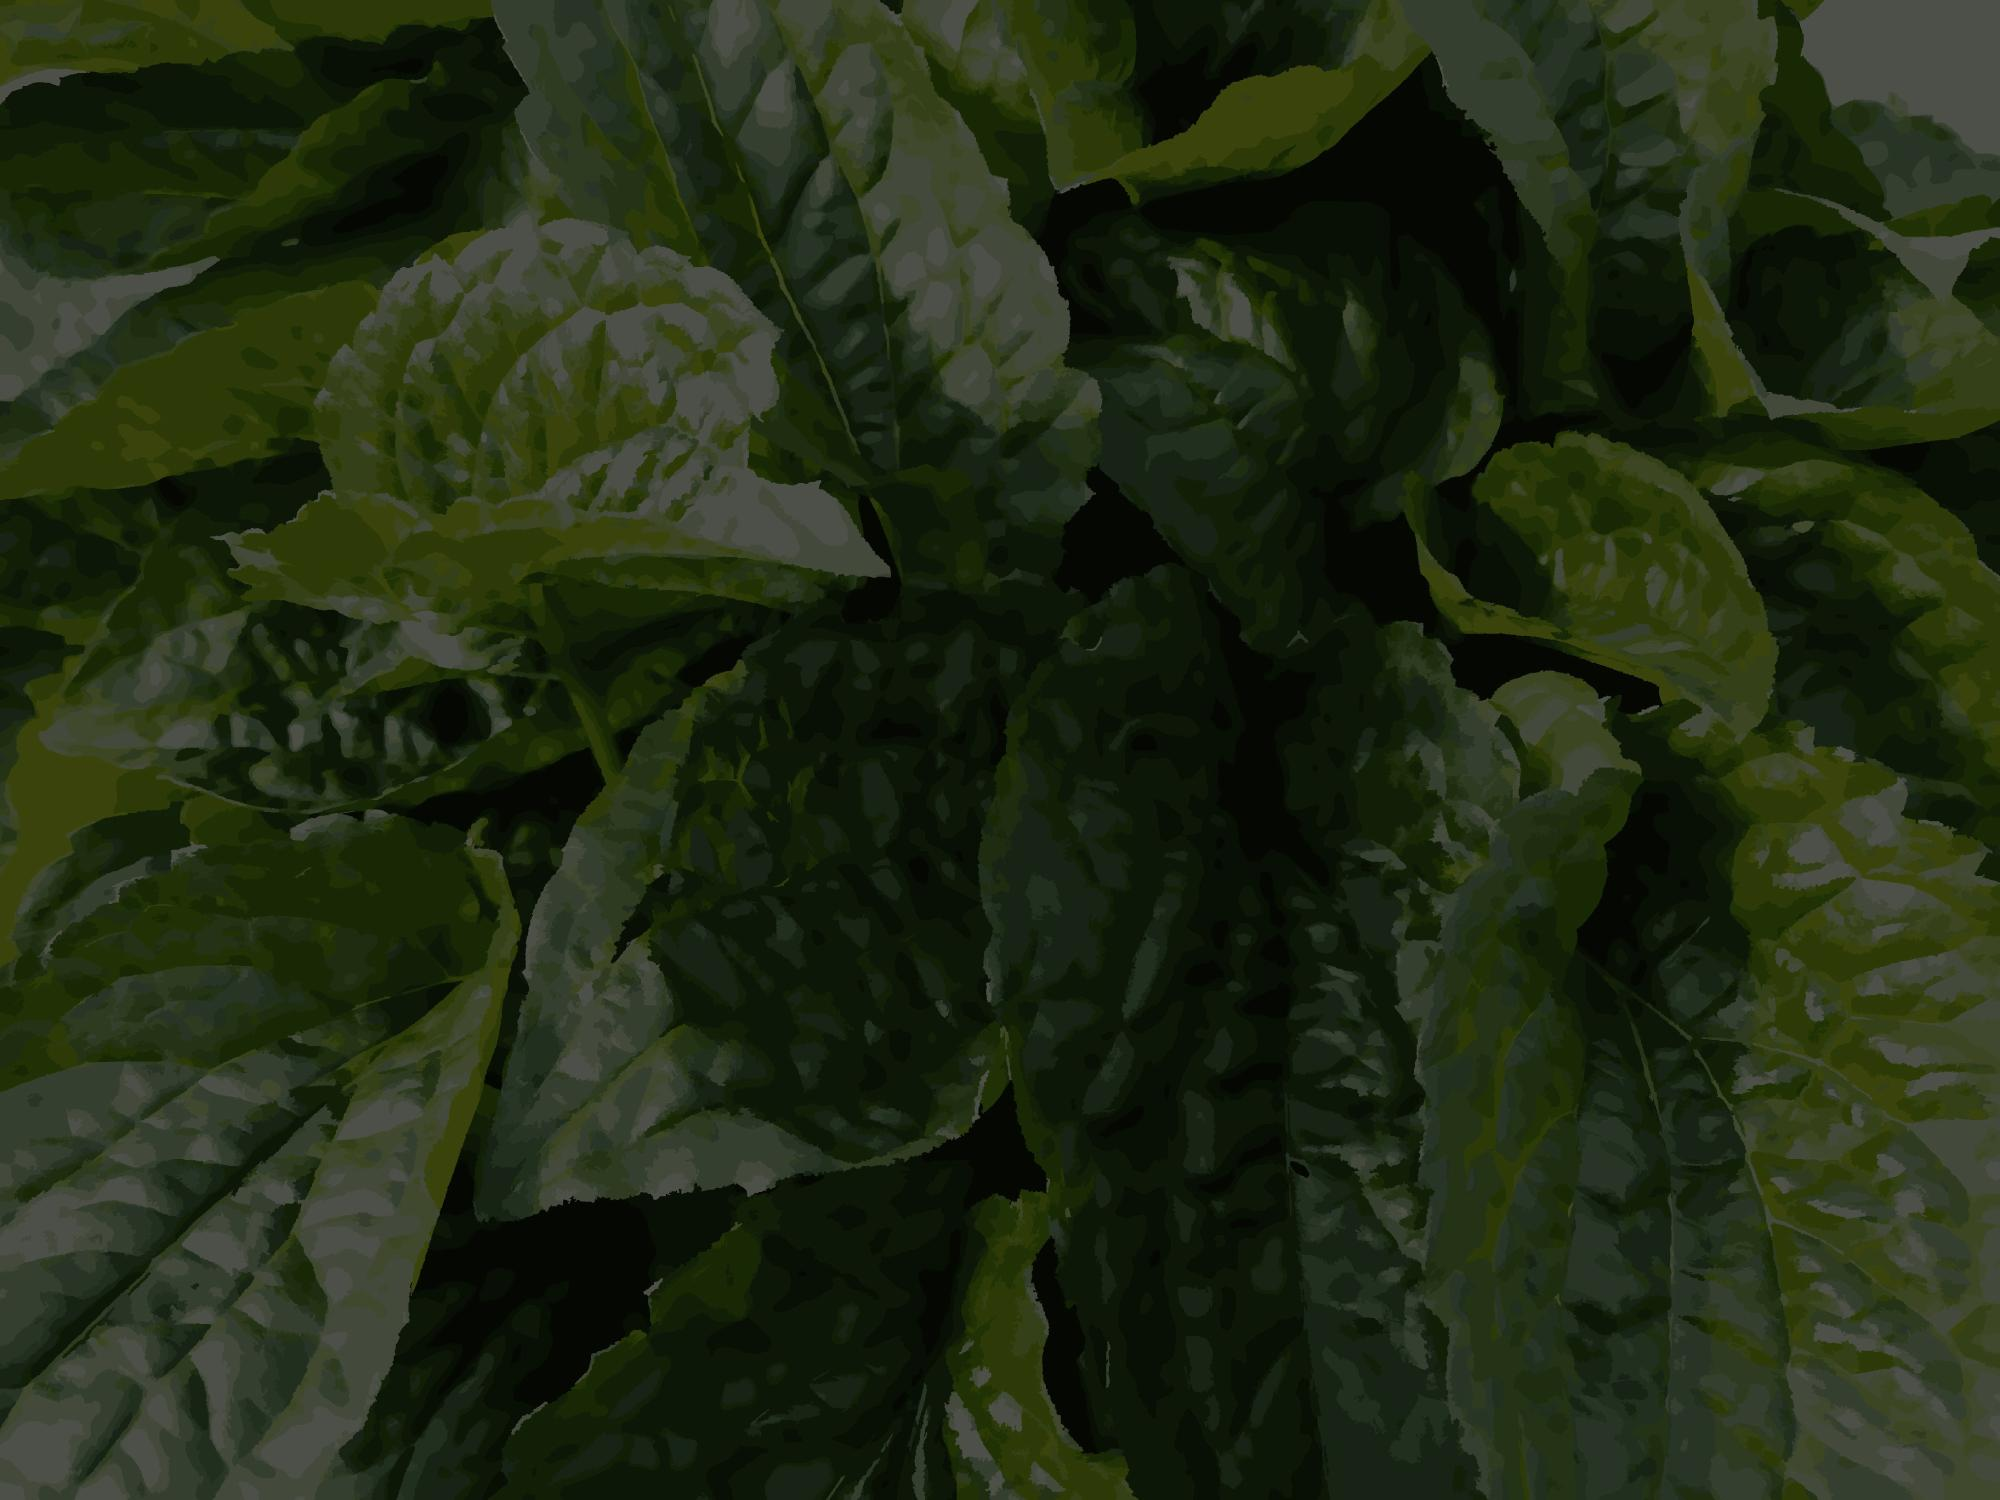
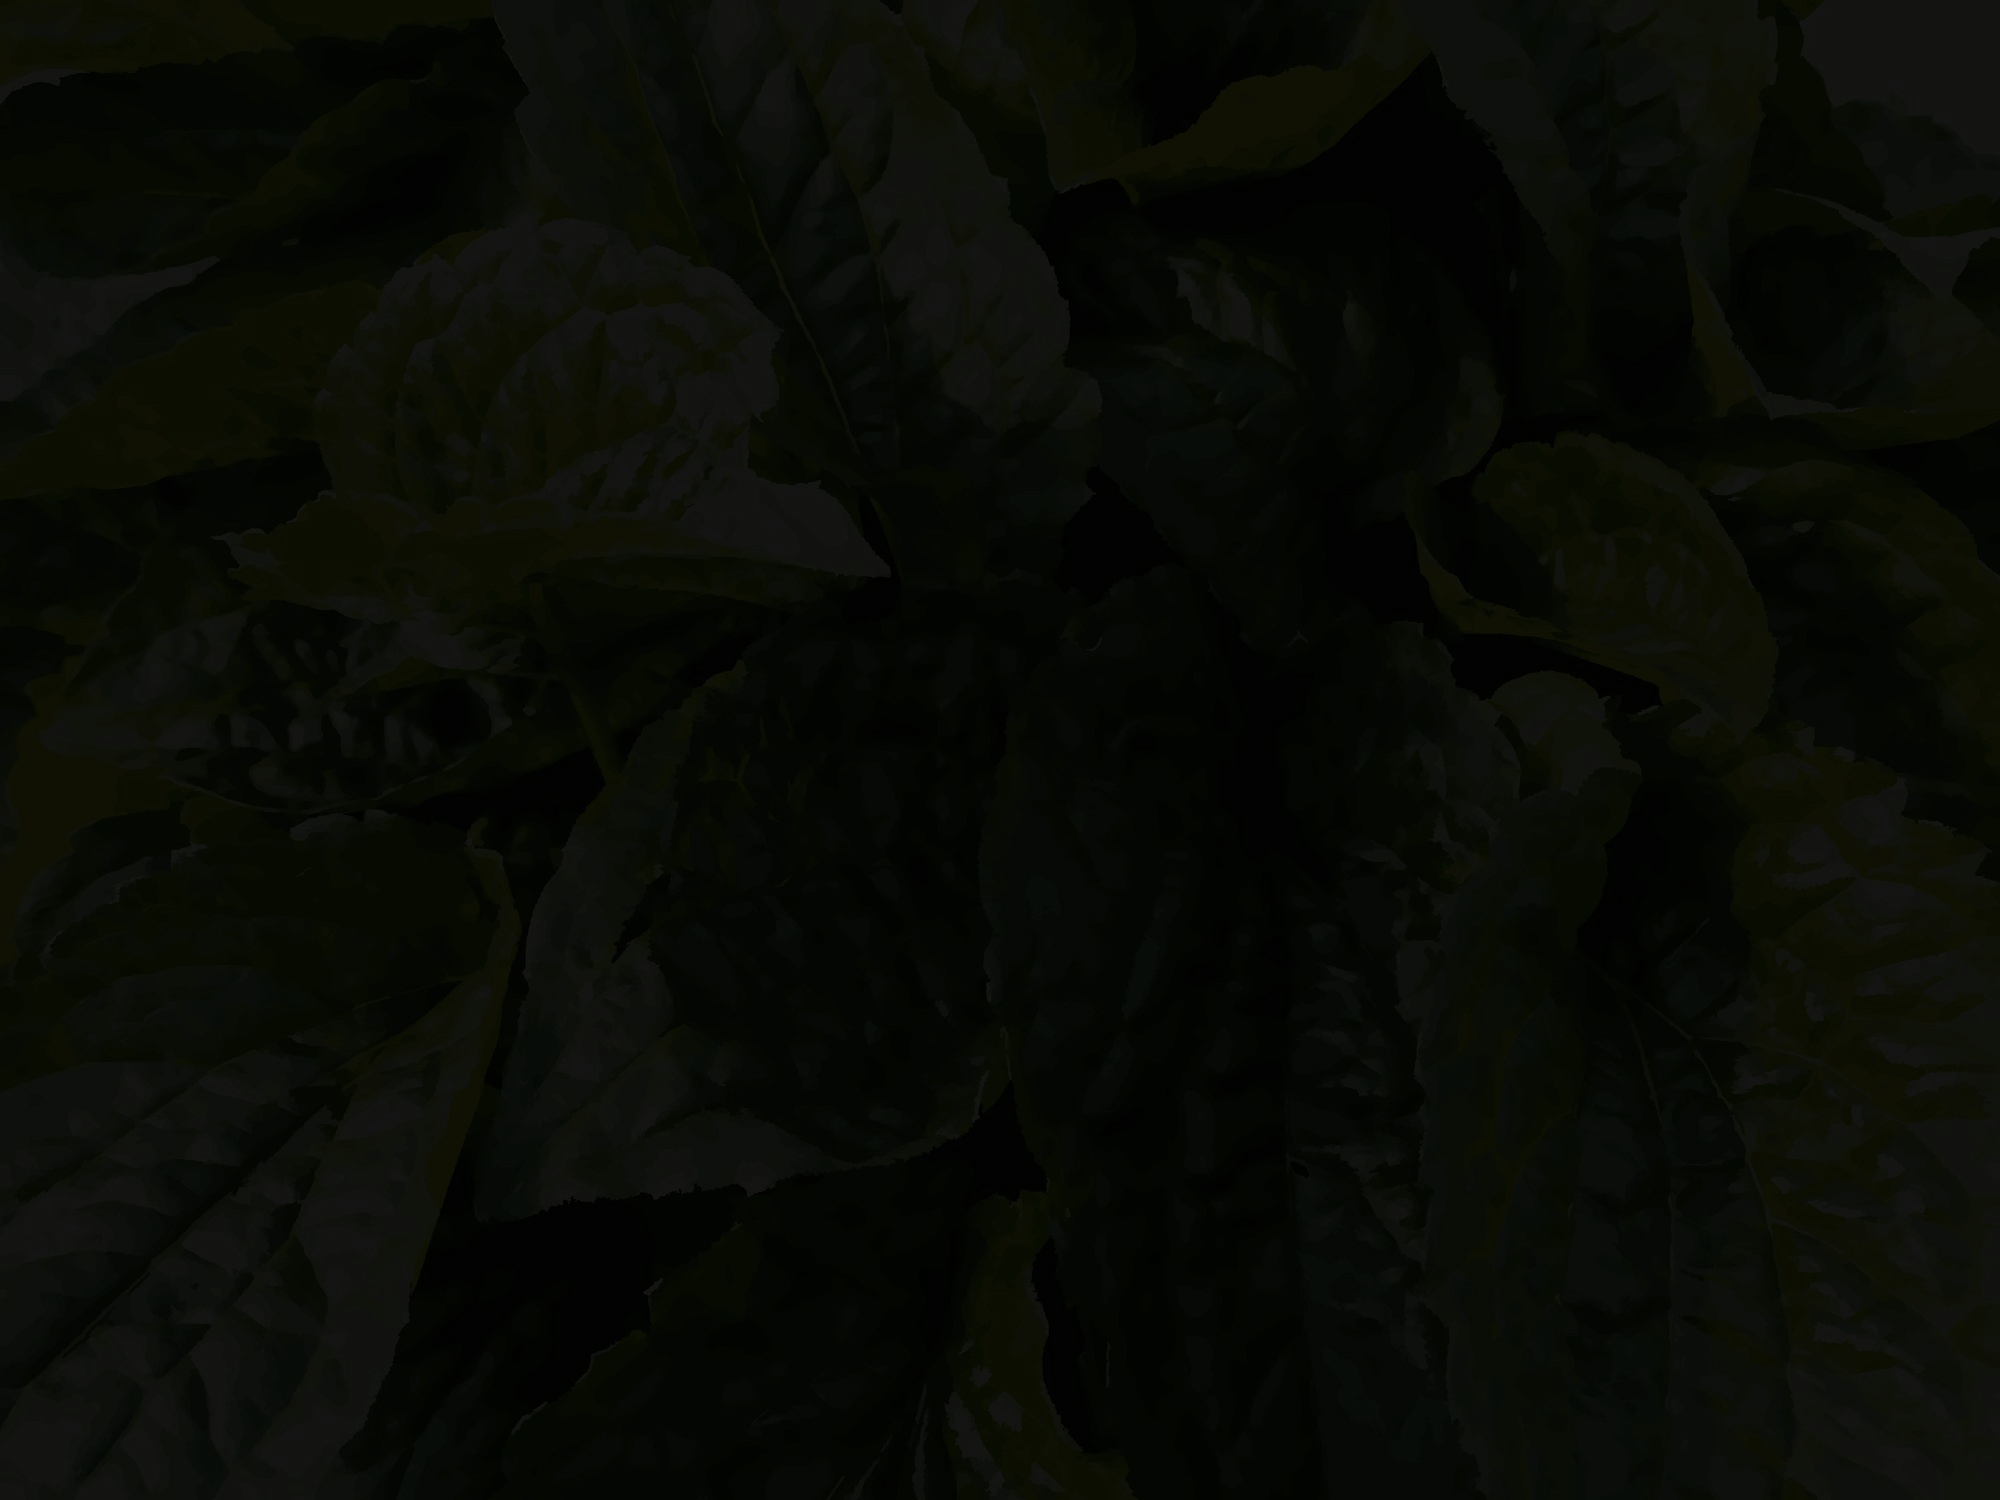
Uppdaterar CSS och bakgrundsbild

diff --git a/src/views/AdminView.vue b/src/views/AdminView.vue
@@ -3,18 +3,23 @@
     <div class="px-5">
         <div class="flex justify-center">
             <div class="w-full max-w-sm md:max-w-md">
-                <div class="bg-white/20 rounded-2xl py-3 md:py-5 px-5 md:px-7">
-                    <h2>Kategorier</h2>
-                    <h3>Befintliga kategorier</h3>
-                    <Categories v-for="category in categories" :category="category" :key="category.id"
-                        @editCategory="editCategory" @deleteCategory="deleteCategory" />
-                    <p class="font-bold text-green-700" :class="{ 'fade-out': msgCategory !== '' }">{{ msgCategory }}</p>
-                    <div v-if="editingCategory">
-                        <EditCategory :category="editingCategory" @categoryEdited="updateCategory"
-                            @cancelEdit="cancelEditCategory" />
+                <div class="bg-white/20 rounded-2xl p-5 pb-3 md:pt-6">
+                    <h2 class="mb-3 md:mb-4">Kategorier</h2>
+                    <div>
+                        <h3>Befintliga kategorier</h3>
+                        <Categories v-for="category in categories" :category="category" :key="category.id"
+                            @editCategory="editCategory" @deleteCategory="deleteCategory" />
                     </div>
-                    <div v-else>
-                        <AddCategory :token="token" @categoryAdded="getCategories()" />
+                    <p class="font-bold text-green-500" :class="{ 'fade-out': msgCategory !== '' }">{{
+                        msgCategory }}</p>
+                    <div class="mt-3">
+                        <div v-if="editingCategory">
+                            <EditCategory :category="editingCategory" @categoryEdited="updateCategory"
+                                @cancelEdit="cancelEditCategory" />
+                        </div>
+                        <div v-else>
+                            <AddCategory :token="token" @categoryAdded="getCategories()" />
+                        </div>
                     </div>
                 </div>
                 <br>

diff --git a/src/components/Categories.vue b/src/components/Categories.vue
@@ -1,12 +1,20 @@
 <template>
-    <div>
-        <p>{{ category.name }}</p>
-        <button @click="$emit('editCategory', category)">Ändra</button>
-        <button @click="confirmDelete">Radera</button>
-        <div v-if="showConfirmation">
-            <p>Alla produkter som tillhör denna kategori kommer att försvinna. Vill du verkligen radera kategorin?</p>
-            <button @click="deleteCategory">Ja</button>
-            <button @click="cancelDelete">Nej</button>
+    <div class="py-2 border-solid border-b border-white/20 last:border-none">
+        <div class=" flex items-center justify-between flex-wrap">
+            <p class="text-sm md:text-base">{{ category.name }}</p>
+            <div>
+                <button @click="$emit('editCategory', category)"
+                    class="bg-yellow-500/20 hover:bg-yellow-500/40 me-1">Ändra<i
+                        class="fa-solid fa-pen-to-square ps-1 md:ps-2"></i></button>
+                <button @click="confirmDelete" class="bg-red-500/20 hover:bg-red-500/40">Radera<i
+                        class="fa-regular fa-trash-can ps-1 md:ps-2"></i></button>
+            </div>
+        </div>
+        <div v-if="showConfirmation" class="py-2">
+            <p class="pb-3">Alla produkter som tillhör denna kategori kommer att försvinna. Är du säker på att du vill
+                radera kategorin?</p>
+            <button @click="deleteCategory">Radera<i class="fa-regular fa-trash-can ps-1 md:ps-2"></i></button>
+            <button @click="cancelDelete" class="ms-1">Avbryt</button>
         </div>
     </div>
 </template>

diff --git a/src/components/EditCategory.vue b/src/components/EditCategory.vue
@@ -1,12 +1,14 @@
 <template>
-    <div>
-        <h3>Ändra kategori</h3>
-        <label for="editCatName">Namn: </label>
-        <input v-model="editedCategoryName" type="text" id="editCatName">
-        <button @click="editCategory">Spara</button>
-        <button @click="$emit('cancelEdit')">Avbryt</button>
-        <p class="font-bold text-red-700" :class="{ 'fade-out': errorMessage !== '' }">{{ errorMessage }}</p>
+    <h3>Ändra kategori</h3>
+    <label for="editCatName">Namn:</label>
+    <br>
+    <input v-model="editedCategoryName" type="text" id="editCatName" class="w-full">
+    <br>
+    <div class="w-full mt-3 mb-3 flex">
+        <button @click="editCategory" class="me-1 w-full">Spara<i class="fa-solid fa-rotate ps-1 md:ps-2"></i></button>
+        <button @click="$emit('cancelEdit')" class="w-full">Avbryt</button>
     </div>
+    <p class="text-center font-bold text-red-500 mt-1" :class="{ 'fade-out': errorMessage !== '' }">{{ errorMessage }}</p>
 </template>
   
 <script>
@@ -30,7 +32,7 @@ export default {
                 // Tar bort meddelande efter 5 sekunder
                 setTimeout(() => { this.errorMessage = "" }, 5000);
 
-            // Skickar event med kategori-id och kategori-namn till föräldrakomponent
+                // Skickar event med kategori-id och kategori-namn till föräldrakomponent
             } else {
                 this.$emit('categoryEdited', {
                     id: this.category.id,

diff --git a/src/components/AddCategory.vue b/src/components/AddCategory.vue
@@ -1,12 +1,14 @@
 <template>
-    <p class="font-bold text-green-700" :class="{ 'fade-out': message !== '' }">{{ message }}</p>
     <h3>Lägg till kategori</h3>
     <form @submit.prevent="addCategory()">
-        <label for="catName">Namn: </label>
-        <input v-model="name" type="text" id="catName">
-        <input type="submit" value="Lägg till">
+        <label for="catName">Namn:</label>
+        <br>
+        <input v-model="name" type="text" id="catName" class="w-full">
+        <br>
+        <input type="submit" value="Lägg till" class="w-full mt-3 mb-2">
     </form>
-    <p class="font-bold text-red-700" :class="{ 'fade-out': errorMessage !== '' }">{{ errorMessage }}</p>
+    <p class="text-center font-bold text-red-500 mt-1" :class="{ 'fade-out': errorMessage !== '' }">{{ errorMessage }}</p>
+    <p class="text-center font-bold text-green-500 mt-1" :class="{ 'fade-out': message !== '' }">{{ message }}</p>
 </template>
 
 <script>
@@ -55,7 +57,7 @@ export default {
                 }
             // Skickar felmeddelande
             } else {
-                this.errorMessage = "Namn måste anges!";
+                this.errorMessage = "Ett namn måste anges!";
 
                 // Tar bort meddelande efter 5 sekunder
                 setTimeout(() => { this.errorMessage = "" }, 5000);

diff --git a/src/style.css b/src/style.css
@@ -12,7 +12,7 @@
     }
 
     h3 {
-        @apply text-base md:text-lg font-medium uppercase tracking-wider;
+        @apply text-base md:text-lg font-medium uppercase tracking-wider md:mb-1;
     }
 
     p {
@@ -25,7 +25,7 @@
 
     button,
     input[type="submit"] {
-        @apply cursor-pointer text-xs md:text-base bg-white/20 transition duration-300 ease-in-out hover:bg-white/40 py-1 px-3 md:px-4 uppercase border-solid border-y border-white/20 font-medium tracking-widest rounded-full;
+        @apply cursor-pointer text-xs md:text-sm bg-white/20 transition duration-300 ease-in-out hover:bg-white/40 py-1 px-3 md:px-4 uppercase border-solid border-y border-white/20 font-medium tracking-widest rounded-full;
     }
 
     input[type="text"],
@@ -44,8 +44,4 @@ body {
     background-attachment: fixed;
     font-family: 'Montserrat', sans-serif;
     color: white;
-}
-
-.text-shadow {
-    text-shadow: 0 0 5px #000000, 0 0 10px #000000, 0 0 15px #000000;
 }

diff --git a/src/views/HomeView.vue b/src/views/HomeView.vue
@@ -13,7 +13,7 @@
         <br>
         <input type="submit" value="Logga in" class="w-full mt-6 md:mt-7">
       </form>
-      <p class="text-center text-red-600 font-bold text-shadow w-full mt-6" :class="{ 'fade-out': message !== '' }">{{ message }}</p>
+      <p class="text-center text-red-500 font-bold w-full mt-6" :class="{ 'fade-out': message !== '' }">{{ message }}</p>
     </div>
   </div>
 </template>
